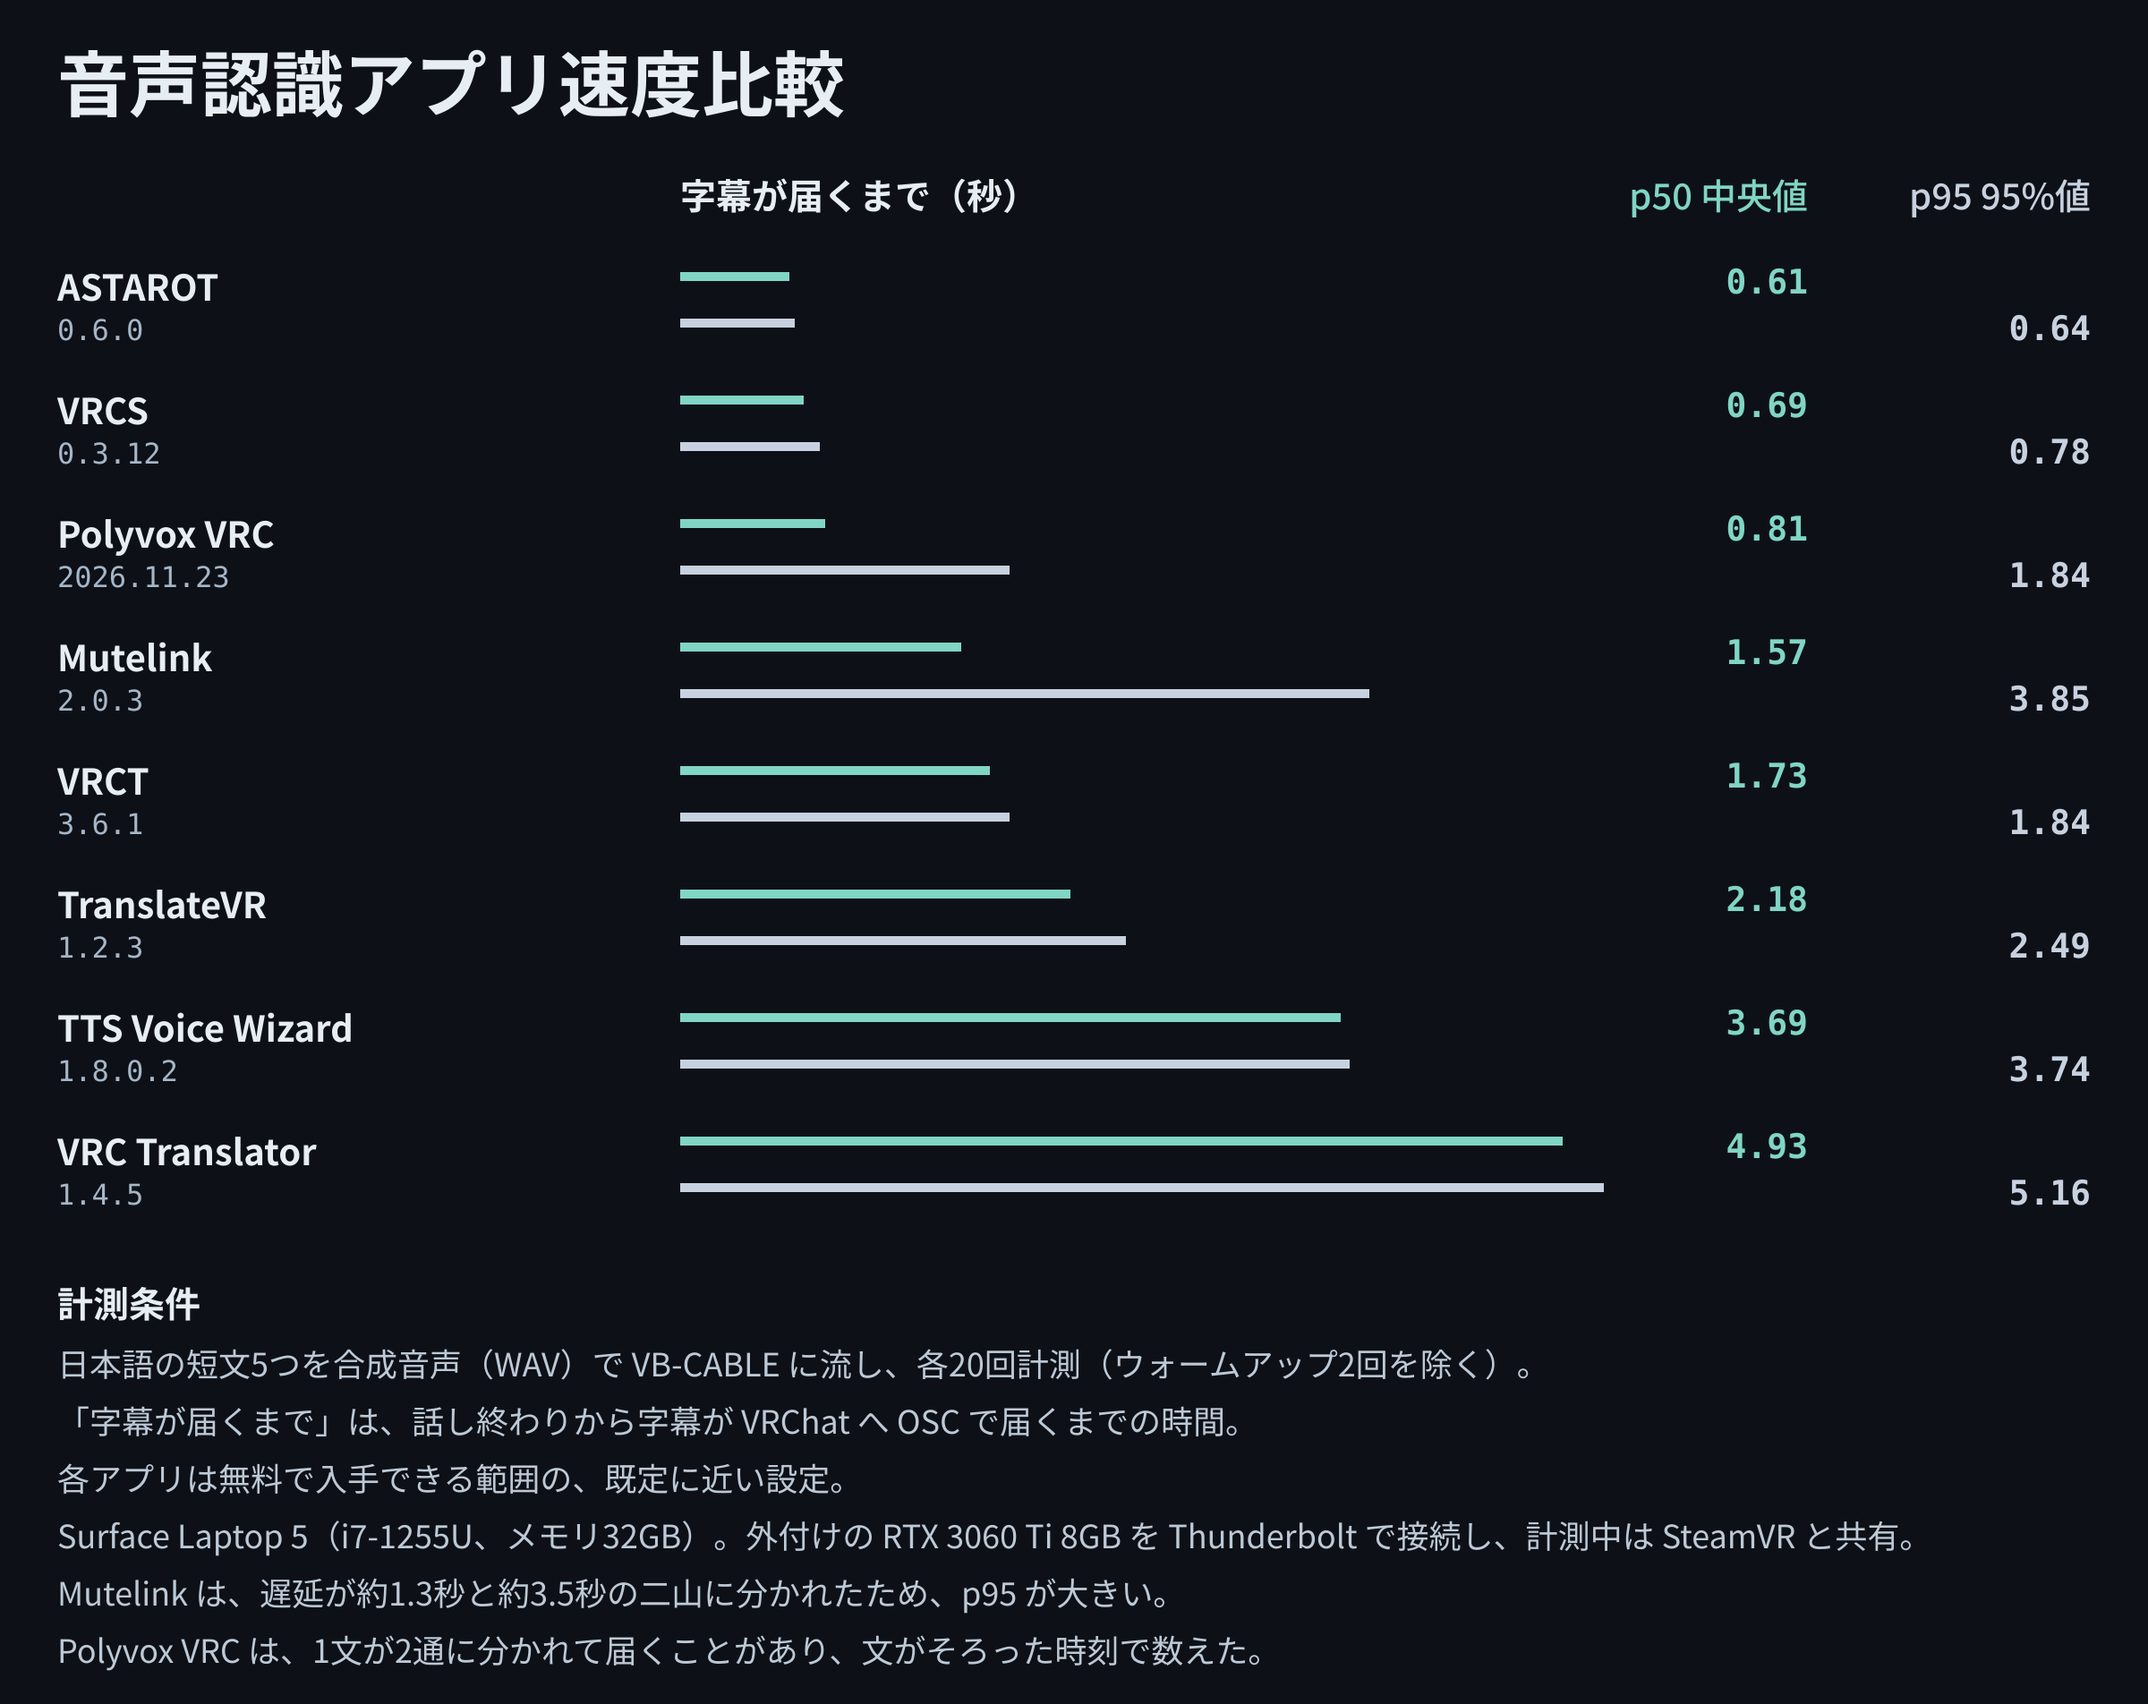
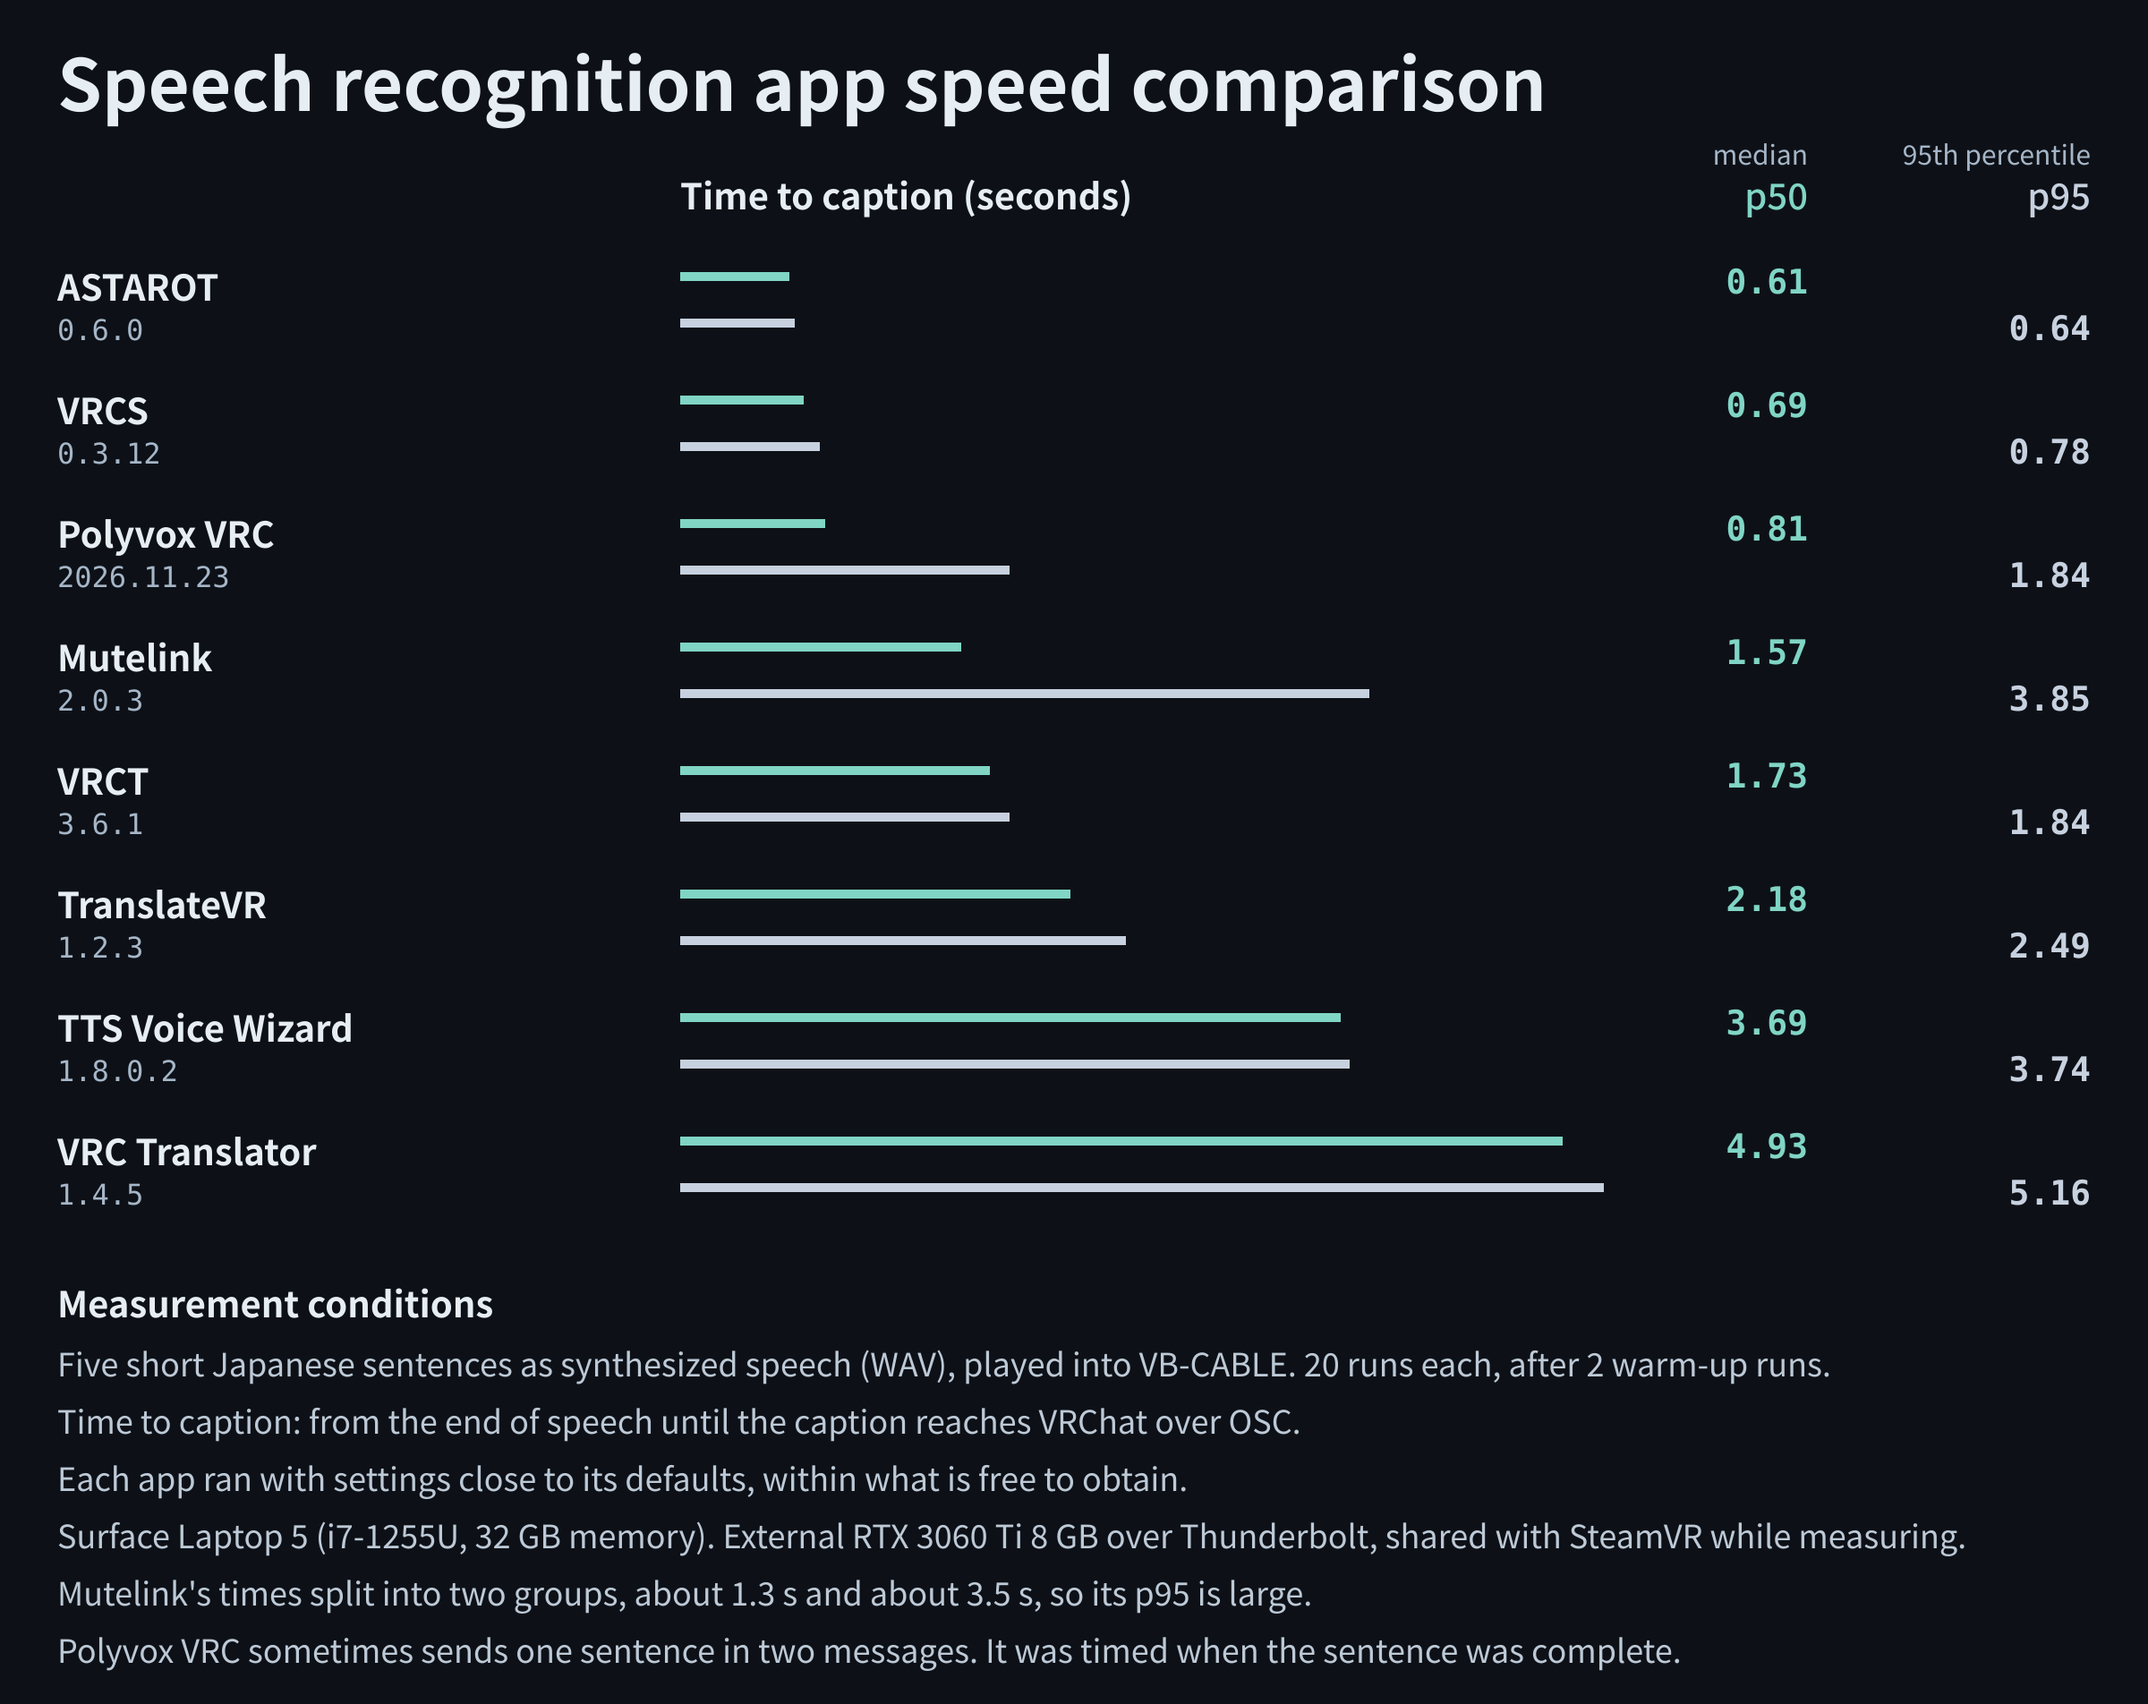
docs(readme): show the caption speed comparison in English
Use one graph with English text in both READMEs, as decided in the pull
request on 2026-11-25. The values, the order and the six lines of
measurement conditions stay the same. The alt text stays in the language
of each README.

Refs: #558

diff --git a/README.md b/README.md
@@ -45,9 +45,9 @@ RVC also needs its runtime, HuBERT and RMVPE. See [model downloads](/docs/voice-
 
 ## Speed comparison
 
-![Bar chart in Japanese: seconds from the end of speech until the caption reaches VRChat over OSC, median (p50) and 95th percentile (p95). ASTAROT 0.6.0: 0.61 and 0.64. VRCS 0.3.12: 0.69 and 0.78. Polyvox VRC 2026.11.23: 0.81 and 1.84. Mutelink 2.0.3: 1.57 and 3.85. VRCT 3.6.1: 1.73 and 1.84. TranslateVR 1.2.3: 2.18 and 2.49. TTS Voice Wizard 1.8.0.2: 3.69 and 3.74. VRC Translator 1.4.5: 4.93 and 5.16.](docs/measurements/subtitle-latency.png)
+![Bar chart: seconds from the end of speech until the caption reaches VRChat over OSC, median (p50) and 95th percentile (p95). ASTAROT 0.6.0: 0.61 and 0.64. VRCS 0.3.12: 0.69 and 0.78. Polyvox VRC 2026.11.23: 0.81 and 1.84. Mutelink 2.0.3: 1.57 and 3.85. VRCT 3.6.1: 1.73 and 1.84. TranslateVR 1.2.3: 2.18 and 2.49. TTS Voice Wizard 1.8.0.2: 3.69 and 3.74. VRC Translator 1.4.5: 4.93 and 5.16.](docs/measurements/subtitle-latency.png)
 
-The chart compares eight apps that send captions of your speech to VRChat: it shows how many seconds pass from the end of your speech until the caption reaches VRChat. The labels are in Japanese. The times were measured in November 2026 on one PC, a Surface Laptop 5 with an external RTX 3060 Ti, and differ on other PCs. The method, the settings of each app and the notes on the results are in [issue #558](https://github.com/kein5/astarot/issues/558).
+The chart compares eight apps that send captions of your speech to VRChat: it shows how many seconds pass from the end of your speech until the caption reaches VRChat. The times were measured in November 2026 on one PC, a Surface Laptop 5 with an external RTX 3060 Ti, and differ on other PCs. The method, the settings of each app and the notes on the results are in [issue #558](https://github.com/kein5/astarot/issues/558).
 
 ## Status and downloads
 
